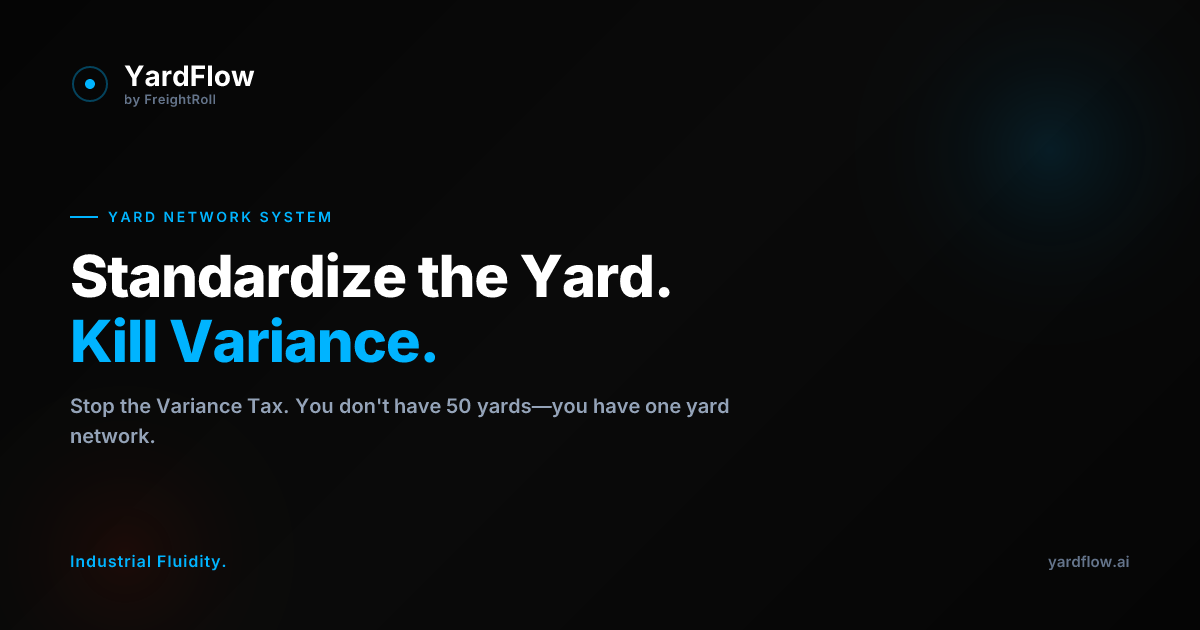
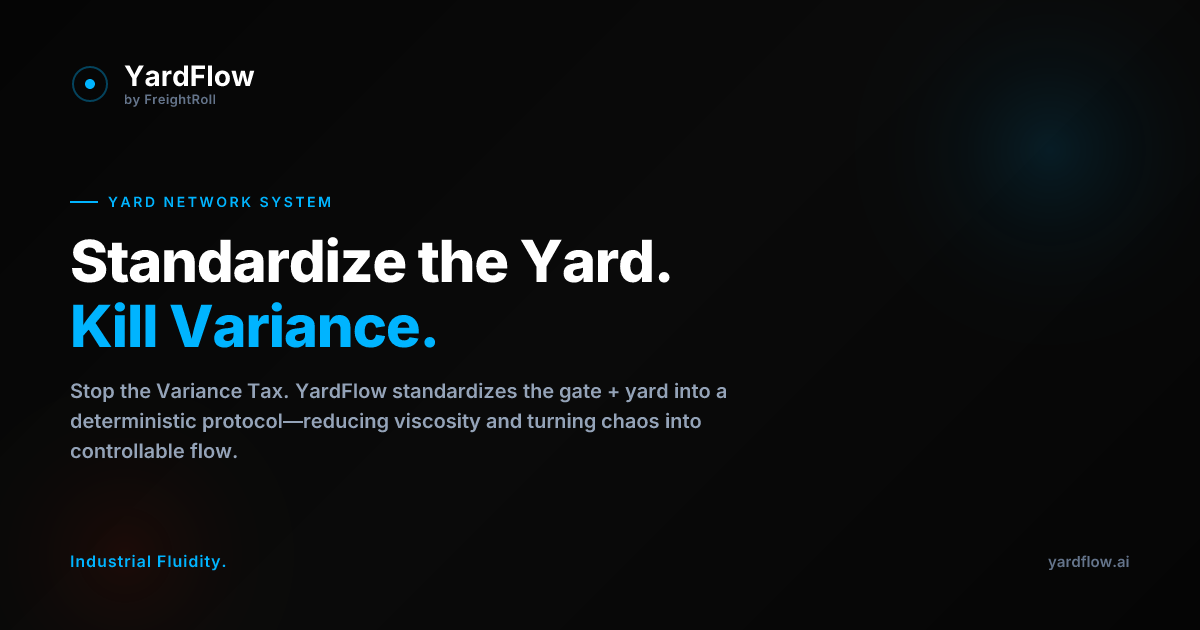
fix(og): Increment cache-busters to v=4 for final production push
- Updated favicon URLs in metadata: /favicon*.{svg,ico,png} → v=4
- Updated OG image URLs: /og.png → v=4
- Updated Twitter image URLs: /og.png → v=4
- Ensures fresh asset delivery on CDN and browser caches
- Previous changes: OG subtitle now matches SITE_METADATA.ogDescription
- Build verified: 57 static pages compiled successfully

Changed region(s): [[0.0617, 0.3016, 0.555, 0.573], [0.0617, 0.6032, 0.6167, 0.7238]]

diff --git a/flow-state-site/app/layout.tsx b/flow-state-site/app/layout.tsx
@@ -29,13 +29,13 @@ export const metadata = {
   publisher: 'FreightRoll',
   icons: {
     icon: [
-      { url: '/favicon.ico?v=3', sizes: '32x32' },
-      { url: '/favicon.svg?v=3', type: 'image/svg+xml' },
-      { url: '/favicon-16x16.png?v=3', sizes: '16x16', type: 'image/png' },
-      { url: '/favicon-32x32.png?v=3', sizes: '32x32', type: 'image/png' },
+      { url: '/favicon.ico?v=4', sizes: '32x32' },
+      { url: '/favicon.svg?v=4', type: 'image/svg+xml' },
+      { url: '/favicon-16x16.png?v=4', sizes: '16x16', type: 'image/png' },
+      { url: '/favicon-32x32.png?v=4', sizes: '32x32', type: 'image/png' },
     ],
     apple: [
-      { url: '/apple-touch-icon.png?v=3', sizes: '180x180', type: 'image/png' },
+      { url: '/apple-touch-icon.png?v=4', sizes: '180x180', type: 'image/png' },
     ],
   },
   manifest: '/site.webmanifest',
@@ -59,7 +59,7 @@ export const metadata = {
     locale: 'en_US',
     images: [
       {
-        url: `${siteUrl}/og.png?v=3`,
+        url: `${siteUrl}/og.png?v=4`,
         width: 1200,
         height: 630,
         alt: 'YardFlow by FreightRoll - Yard Network System (YNS)',
@@ -70,7 +70,7 @@ export const metadata = {
     card: 'summary_large_image',
     title: SITE_METADATA.ogTitle,
     description: SITE_METADATA.ogDescription,
-    images: [`${siteUrl}/og.png?v=3`],
+    images: [`${siteUrl}/og.png?v=4`],
     creator: '@freightroll',
   },
   alternates: {

diff --git a/flow-state-site/scripts/generate-og-inter.js b/flow-state-site/scripts/generate-og-inter.js
@@ -276,7 +276,7 @@ async function generateOG() {
                           fontWeight: 400,
                           maxWidth: '750px',
                         },
-                        children: "Stop the Variance Tax. You don't have 50 yards—you have one yard network.",
+                        children: "Stop the Variance Tax. YardFlow standardizes the gate + yard into a deterministic protocol—reducing viscosity and turning chaos into controllable flow.",
                       },
                     },
                   ],
